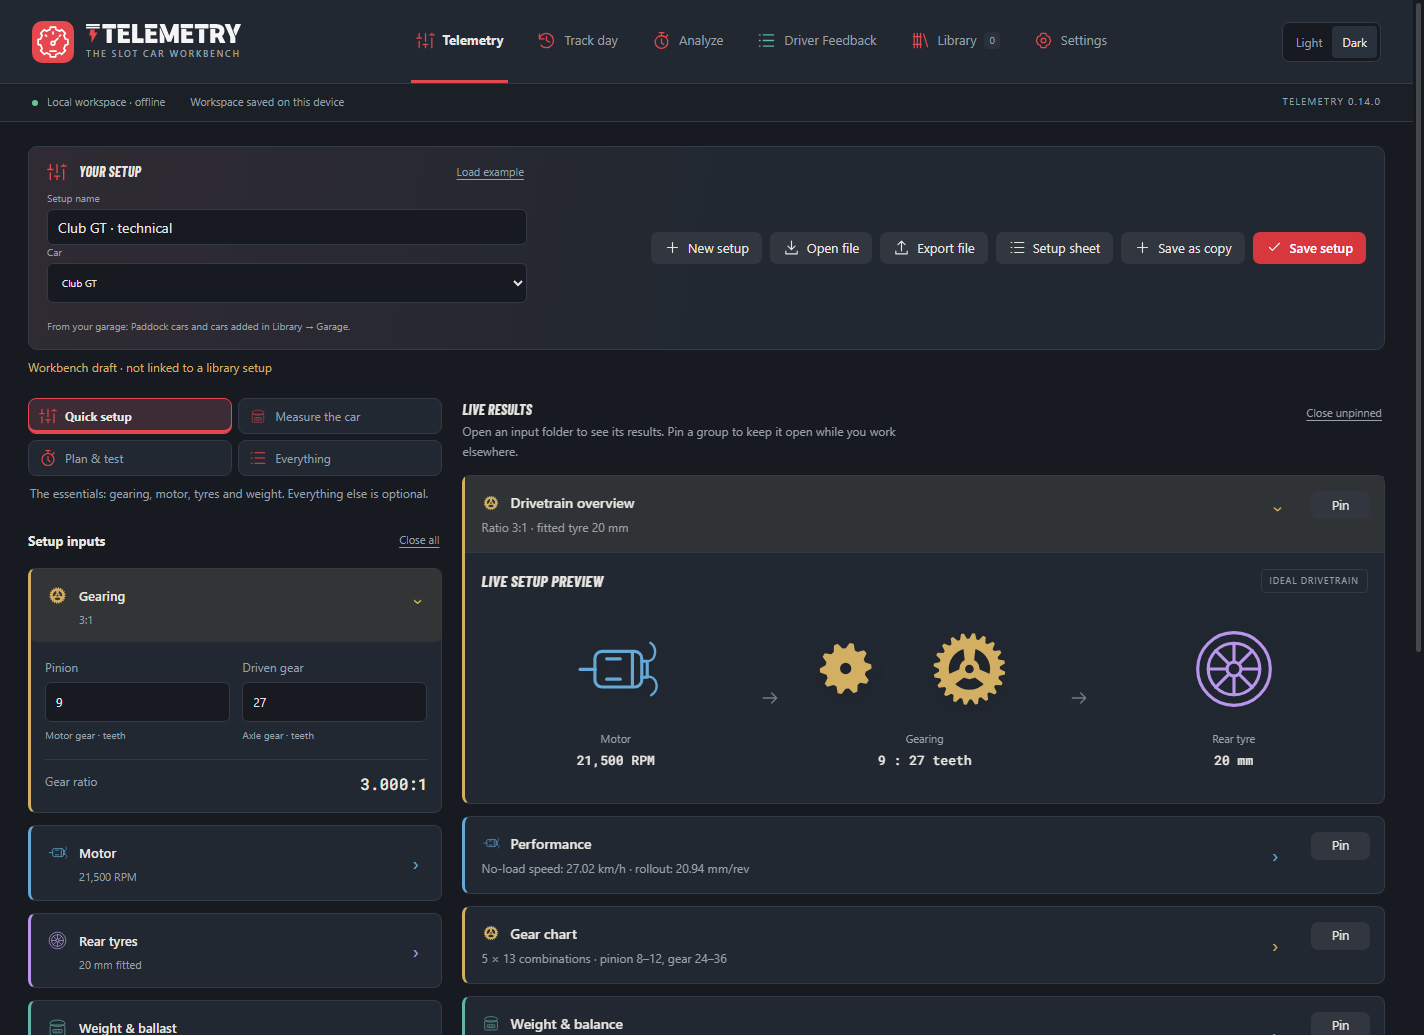
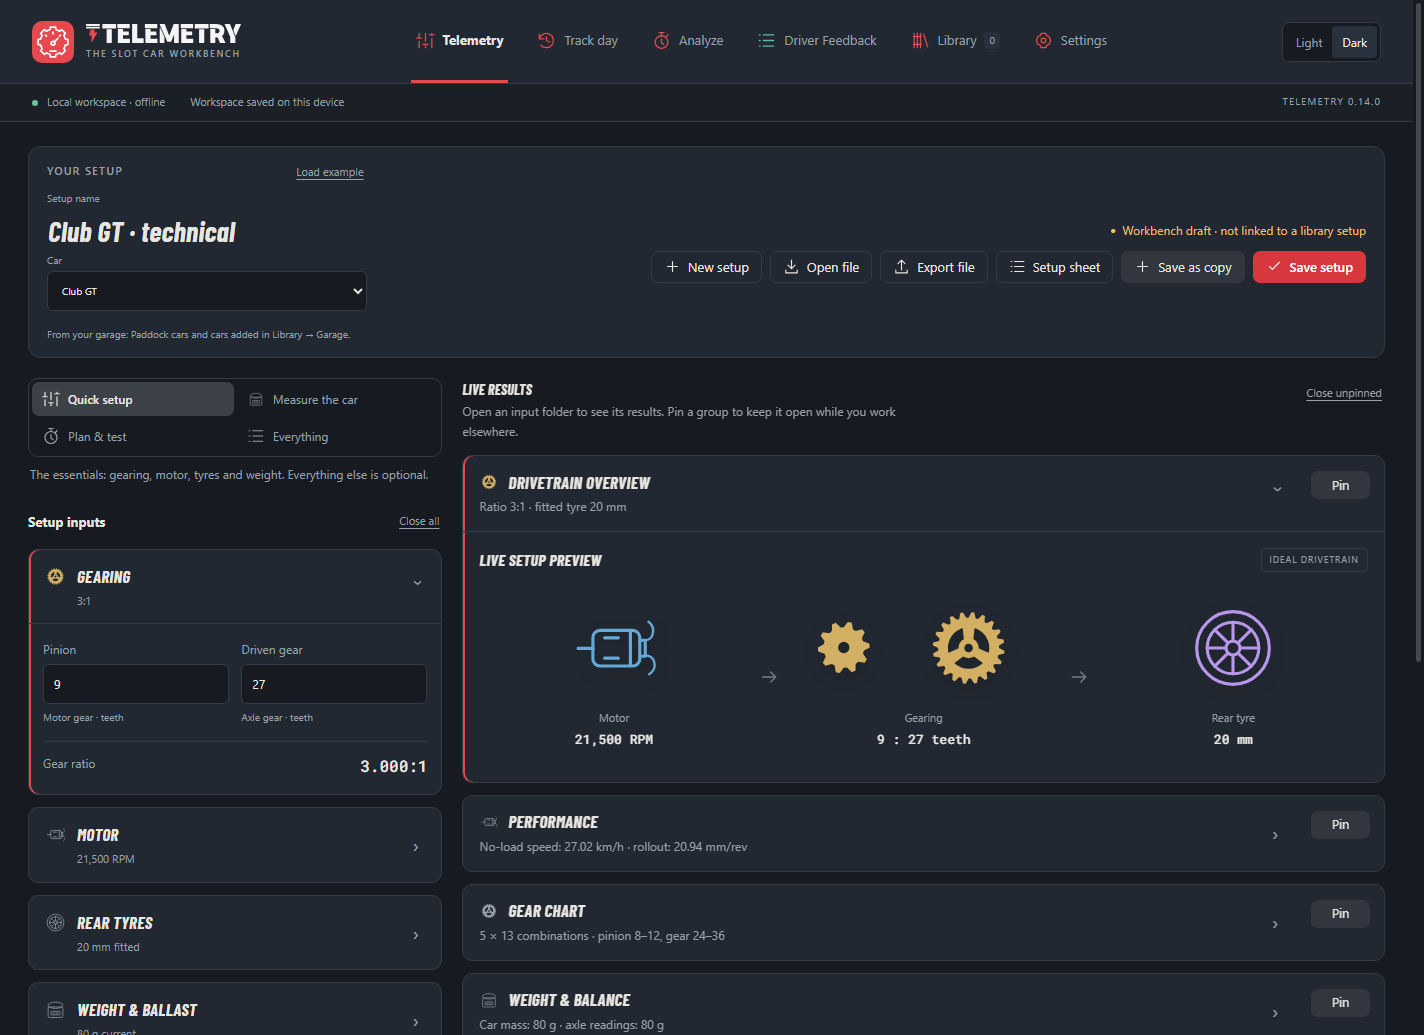
Workbench: Pit Board setup bar, Gear Selector levels, Folders
The fifth step of the SlotForge Restyle, for the workbench:

- The setup bar as a Pit Board: the name as a large Barlow field edited
  in place, the saved state (#library-workspace-status, moved next to
  the buttons) as a yellow draft dot or a green tick, Save setup as the
  one primary, and New / Open / Export / Setup sheet as outline buttons.
- The workbench levels as a Gear Selector: a sunken strip with the
  chosen level lifted in grey instead of the accent outline.
- Input and result folders as Folders: plain box, Barlow title, muted
  chevron, a thin accent mark on the left when open, the icon in its
  colour only while open; grey pressed Pin; no category edges or tints.
- workbench-restyle.css holds all of it; design.js moves the saved state
  and marks the tools. README pictures remade.

All 244 unit, 3 interop and 21 desktop suites pass.

diff --git a/renderer/index.html b/renderer/index.html
@@ -1,4 +1,4 @@
-<!doctype html><html lang="en" data-theme="dark" data-tone="dark"><head><meta charset="utf-8"><meta name="viewport" content="width=device-width,initial-scale=1"><meta http-equiv="Content-Security-Policy" content="default-src 'self'; script-src 'self'; style-src 'self'; img-src 'self' data:; connect-src 'none'; object-src 'none'; base-uri 'none'; form-action 'none'"><title>SlotForge Telemetry</title><link rel="icon" href="../assets/icon.svg"><link rel="stylesheet" href="styles.css"><link rel="stylesheet" href="themes.css"><link rel="stylesheet" href="performance.css"><link rel="stylesheet" href="pages.css"><link rel="stylesheet" href="category-design.css"><link rel="stylesheet" href="race.css"><link rel="stylesheet" href="driver-feedback.css"><link rel="stylesheet" href="input-help.css"><link rel="stylesheet" href="workbench.css"><link rel="stylesheet" href="trackday.css"><link rel="stylesheet" href="garage.css"><link rel="stylesheet" href="restyle.css"><link rel="stylesheet" href="settings-sheet.css"><link rel="stylesheet" href="analyze-rail.css"><link rel="stylesheet" href="library-shell.css"></head><body>
+<!doctype html><html lang="en" data-theme="dark" data-tone="dark"><head><meta charset="utf-8"><meta name="viewport" content="width=device-width,initial-scale=1"><meta http-equiv="Content-Security-Policy" content="default-src 'self'; script-src 'self'; style-src 'self'; img-src 'self' data:; connect-src 'none'; object-src 'none'; base-uri 'none'; form-action 'none'"><title>SlotForge Telemetry</title><link rel="icon" href="../assets/icon.svg"><link rel="stylesheet" href="styles.css"><link rel="stylesheet" href="themes.css"><link rel="stylesheet" href="performance.css"><link rel="stylesheet" href="pages.css"><link rel="stylesheet" href="category-design.css"><link rel="stylesheet" href="race.css"><link rel="stylesheet" href="driver-feedback.css"><link rel="stylesheet" href="input-help.css"><link rel="stylesheet" href="workbench.css"><link rel="stylesheet" href="trackday.css"><link rel="stylesheet" href="garage.css"><link rel="stylesheet" href="restyle.css"><link rel="stylesheet" href="settings-sheet.css"><link rel="stylesheet" href="analyze-rail.css"><link rel="stylesheet" href="library-shell.css"><link rel="stylesheet" href="workbench-restyle.css"></head><body>
 <header class="app-header"><a class="brand" href="#telemetry"><span class="brand-mark"></span><span class="brand-copy"><span class="brand-wordmark" role="img" aria-label="SlotForge Telemetry"><img class="brand-wordmark-light" src="../assets/telemetry-wordmark-light.svg" alt="" width="698" height="87"><img class="brand-wordmark-dark" src="../assets/telemetry-wordmark-dark.svg" alt="" width="698" height="87"></span><small>THE SLOT CAR WORKBENCH</small></span></a><nav class="main-nav" aria-label="Main navigation"><a href="#telemetry" data-route="telemetry" >Telemetry</a><a href="#analyze" data-route="analyze" >Analyze</a><a href="#library" data-route="library" id="library-button">Library<small id="library-count">0</small></a><a href="#settings" data-route="settings" >Settings</a></nav><div class="theme-switch" role="group" aria-label="Colour mode"><button data-tone-choice="light">☀ Light</button><button data-tone-choice="dark">☾ Dark</button></div></header>
 <div class="workspace-bar"><span id="paddock-global-status"><i class="dot"></i> Local workspace · offline</span><span id="save-state" role="status">Ready</span><span class="version">TELEMETRY 0.14.0</span></div><main>
 <section data-page="telemetry"><div class="page-head"><div><p class="eyebrow">YOUR WORKBENCH</p><h1>Telemetry</h1><p>Build your setup. See the numbers come together.</p></div><div class="actions"><button class="btn" id="new-setup">New setup</button><button class="btn" id="open-setup">Open file</button><button class="btn" id="save-setup">Export file</button><button class="btn" id="setup-sheet" title="Download a printable one-page sheet of this setup">Setup sheet</button><button class="btn" id="save-copy">Save as copy</button><button class="btn primary" id="save-library">Save setup</button></div></div><p id="library-workspace-status" class="library-workspace-status" role="status"></p><input id="setup-file" type="file" accept=".json,application/json" hidden>

diff --git a/renderer/workbench-restyle.css b/renderer/workbench-restyle.css
@@ -1,0 +1,45 @@
+/* The workbench in the SlotForge Restyle look: the setup bar as a Pit Board, the level switch as a Gear Selector,
+   and the input and result folders as Folders (quiet box, Barlow title, chevron, a thin accent mark when open).
+   Colour stays on the icon of an open folder. Loaded after library-shell.css. */
+
+/* ---------- Pit Board: big name, saved state, tools, Save ---------- */
+.workbench-toolbar{background:var(--panel);border:1px solid var(--line);border-radius:12px}
+.workbench-toolbar .setup-panel h2{font:600 10.5px/1.3 'Segoe UI',system-ui,sans-serif;font-style:normal;letter-spacing:.14em;text-transform:uppercase;color:var(--muted)}
+.workbench-toolbar .setup-panel h2 .sf-icon{display:none}
+.workbench-toolbar #name{height:44px;padding:0 10px;margin-left:-10px;width:calc(100% + 10px);border-color:transparent;background:transparent;font:italic 700 28px/1 var(--sf-title);letter-spacing:.01em}
+.workbench-toolbar #name:hover{border-color:var(--line)}
+.workbench-toolbar #name:focus{border-color:color-mix(in srgb,var(--ink) 30%,var(--line));background:var(--bg)}
+.workbench-toolbar .actions{justify-content:flex-end}
+.save-state{flex-basis:100%;margin:0 0 4px;padding:0;text-align:right;font-size:12px;color:var(--muted)}
+.save-state::before{content:'●';margin-right:6px;font-size:10px;vertical-align:1px}
+.workbench-toolbar .save-state[data-save-status]{margin:0 0 4px;padding:0}
+.save-state[data-save-status=draft]{color:var(--amber)}
+.save-state[data-save-status=saved]{color:var(--green)}
+.save-state[data-save-status=saved]::before{content:'✓';font-size:12px;vertical-align:0}
+.save-state[data-save-status=error]{color:var(--accent-text,var(--accent))}
+
+/* ---------- Gear Selector: the workbench levels ---------- */
+.level-switch{padding:3px;gap:3px;border:1px solid var(--line);border-radius:10px;background:var(--bg)}
+.level-switch button{border:0;border-radius:7px;background:transparent;color:var(--muted);font-weight:400;box-shadow:none}
+.level-switch button .sf-icon{color:var(--muted)}
+.level-switch button:hover{color:var(--ink);background:color-mix(in srgb,var(--ink) 6%,transparent)}
+.level-switch button[aria-pressed=true]{border:0;background:color-mix(in srgb,var(--ink) 13%,var(--panel));color:var(--ink);font-weight:600;box-shadow:none}
+.level-switch button[aria-pressed=true] .sf-icon{color:var(--ink)}
+
+/* ---------- Folder: input folders and result folders ---------- */
+.workbench-folder,.result-group{border:1px solid var(--line);border-radius:10px;background:var(--panel);box-shadow:none}
+.workbench-folder[open],.result-group:has(>.result-folder[open]){box-shadow:inset 2px 0 0 var(--accent)}
+.workbench-folder>summary,.result-folder>summary{background:none}
+.workbench-folder[open]>summary{background:none;border-bottom:1px solid var(--line);border-radius:0;margin-bottom:12px}
+.result-folder[open]>summary{background:none;border-bottom:1px solid var(--line)}
+.workbench-folder>summary:after,.result-folder>summary:after{color:var(--muted)}
+/* Barlow titles; the values line under them stays in the plain type. */
+.workbench-folder .folder-heading,.result-folder .result-title{display:flex;align-items:center;gap:9px;font:italic 700 17px/1.15 var(--sf-title);text-transform:uppercase;letter-spacing:.02em;color:var(--ink)}
+.workbench-folder .folder-heading .step{display:none}
+/* Paint: the icon of an open folder only. */
+.workbench-folder .folder-heading .sf-icon,.result-folder .result-title .sf-icon{color:var(--muted)}
+.workbench-folder[open] .folder-heading .sf-icon,.result-folder[open] .result-title .sf-icon{color:var(--category,var(--accent))}
+.result-pin[aria-pressed=true]{color:var(--ink);border-color:transparent;background:color-mix(in srgb,var(--ink) 16%,var(--btn-mix,var(--panel)))}
+.workbench-results>summary{color:var(--muted)}
+/* The drivetrain picture keeps its colours; its box is plain. */
+.drivetrain{border-top:1px solid var(--line)}

diff --git a/renderer/design.js b/renderer/design.js
@@ -2,6 +2,10 @@
 function initializeDesign(){
   const homeHead=document.querySelector('[data-page=telemetry] .page-head'),setupPanel=document.querySelector('.setup-panel');
   homeHead.classList.add('workbench-toolbar');homeHead.firstElementChild.replaceChildren(setupPanel);
+  // SlotForge Restyle (Pit Board): the saved state sits with the buttons, the file tools are outline buttons, Save is the one main action.
+  const tools=homeHead.querySelector('.actions'),saved=document.querySelector('#library-workspace-status');
+  if(tools&&saved){saved.classList.add('save-state');tools.prepend(saved);}
+  for(const id of ['new-setup','open-setup','save-setup','setup-sheet'])document.getElementById(id)?.classList.add('ghost');
   const decorate=(selector,name)=>{for(const el of document.querySelectorAll(selector))el.insertAdjacentHTML('afterbegin',sfIcon(name));};
   document.querySelector('.brand-mark').innerHTML='<img src="../assets/icon.svg" alt="" width="42" height="42">';
   for(const [route,name] of Object.entries({telemetry:'setup',trackday:'history',analyze:'timer',feedback:'list',library:'library',settings:'settings'})){

diff --git a/CHANGELOG.md b/CHANGELOG.md
@@ -36,6 +36,12 @@ Telemetry starts to follow the new shared SlotForge look of Timing and Paddock (
 - **Garage cards:** each car shows its photo edge to edge, or a car icon when there is none, with the name in capitals, maker and class, setups and runs, and where it comes from. *Add car* is the main button of the Garage.
 - The selected setup's buttons are plain: no more coloured edges on Analyze and Compare.
 
+### Workbench in the new look
+
+- **The setup bar:** the setup name is large, in the title type, and you edit it in place. Its state shows next to the buttons: a yellow dot for a draft or unsaved changes, a green tick once it is saved in the library. *Save setup* is the one main button; New, Open, Export and Setup sheet are outline buttons.
+- **Quick setup / Measure the car / Plan & test / Everything** is a quiet switch: the chosen level is lifted in grey, not outlined in red.
+- **Input and result folders** are plain boxes with their name in the title type and a chevron. An open folder gets a thin accent line on its left and shows its icon in colour; closed folders are grey. Pinned result groups show a grey Pin.
+
 ## 0.14.0 — 17 November 2026 · Track day, Garage and backups
 
 ### Faster with a full library
